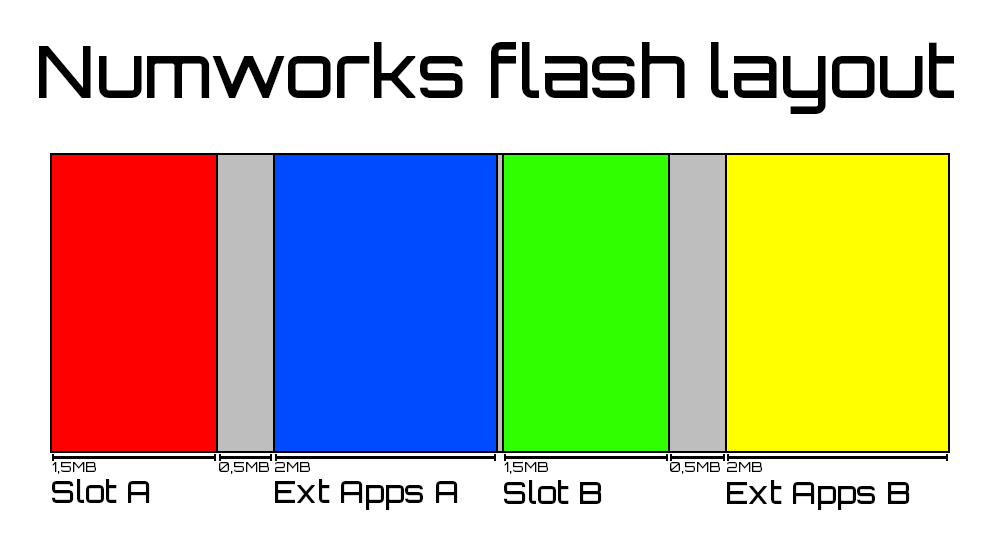
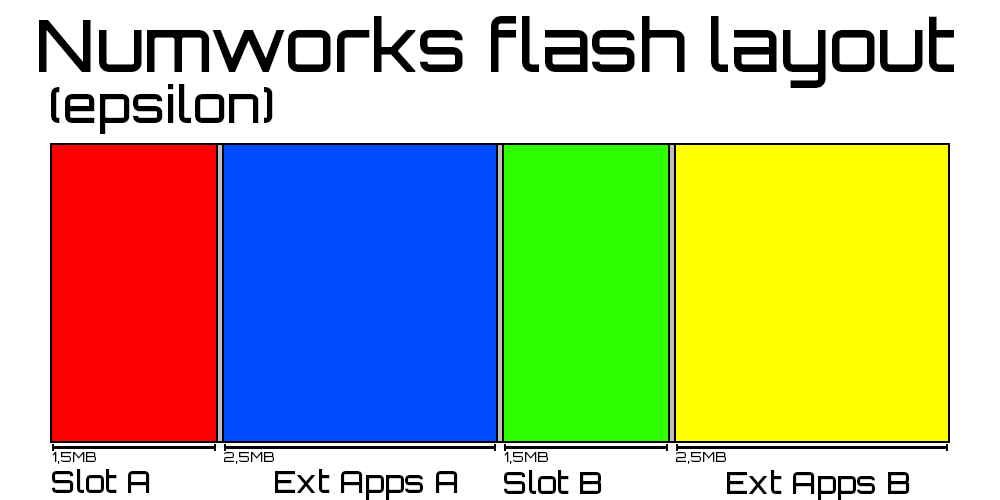
Update readme

Changed region(s): [[0.031, 0.03, 0.961, 1.0]]

diff --git a/README.md b/README.md
@@ -12,7 +12,7 @@ NumWorks calculators boot slot A by default, then you can access Slot B with a l
 
 If the userland crashes or if you reset it, the calculator falls back to booting slot A, but slot B isn't wiped in the process, so the custom userland is still there and can be re-launched afterward (at least on latest versions of epsilon).
 
-This has only been tested on the `n0120` with epsilon `26.3.0` so far. If you try it on another model, please open an issue to report whether it worked or not.
+This has been tested on the `n0120` and `n0115` with epsilon `26.3.0` so far. If you try it on another model, please open an issue to report whether it worked or not.
 
 <img src="github_assets/slots.png" width=320 alt="Salty-OS">
 
@@ -41,11 +41,12 @@ All three currently require rebuilding the userland to change. A simpler customi
 
 # How to install
 
-### Update the calculator
+### Update the calculator twice
 
 - Go to the [Numworks updater](https://my.numworks.com/devices/upgrade).
 - Connect your calculator.
 - Click update.
+- Do it a second time to make sure slot A is used.
 
 
 ### Userland
@@ -65,3 +66,30 @@ All three currently require rebuilding the userland to change. A simpler customi
 - Click install.
 
 Open the app and press exe, you should now be in Salty-OS. If it crashes, retry.
+
+# How to build
+
+- Clone the repo.
+```sh
+git clone https://github.com/SaltyMold/Salty-OS
+cd Salty-OS
+```
+
+- Activate the virtual environment.
+```sh
+python3 -m venv .venv
+source .venv/bin/activate
+```
+
+- Install the dependencies.
+```sh
+# Use tools/setup.sh are adapt it to your system.
+```
+
+- Build the userland for n0120 for exemple.
+```sh
+make -j$(nproc) PLATFORM=n0120 userland.allow3rdparty.B.dfu
+# Without onboarding
+# With 3rd party apps allowed
+# For slot B
+```
